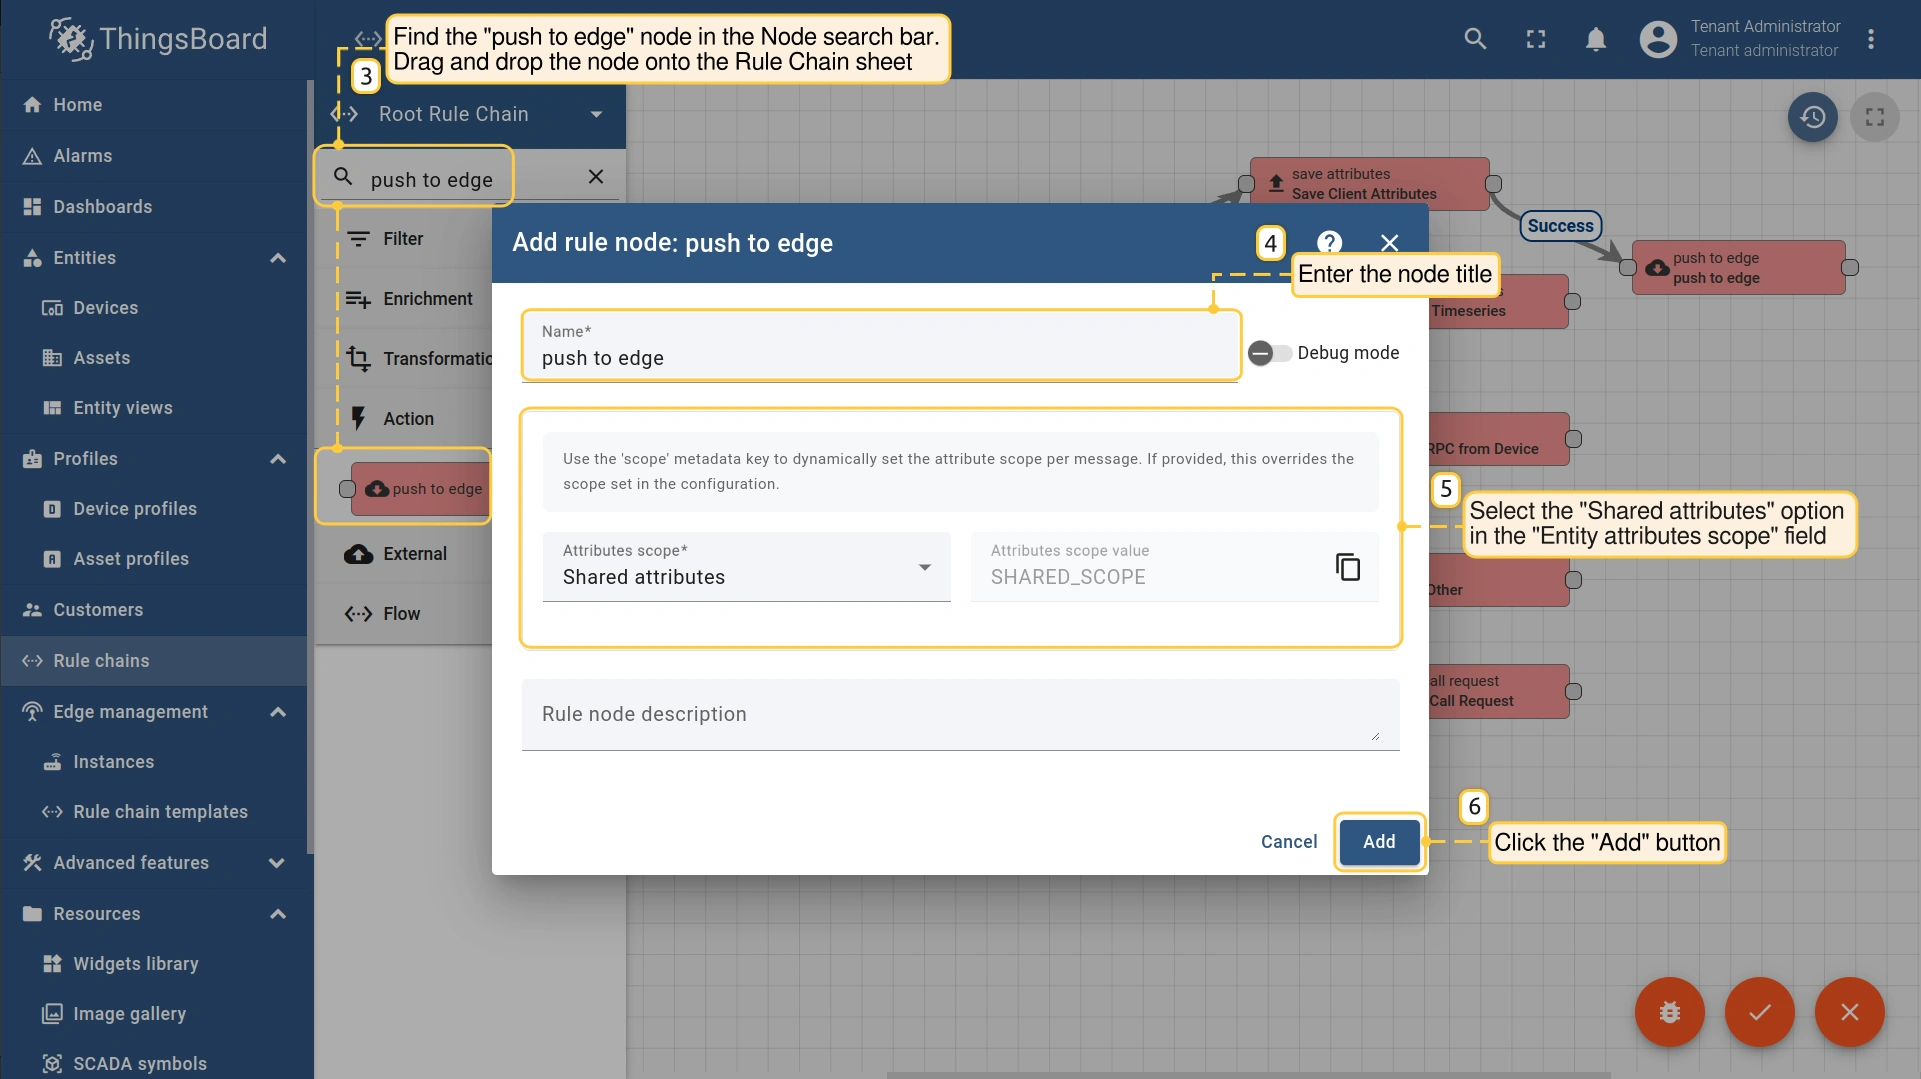
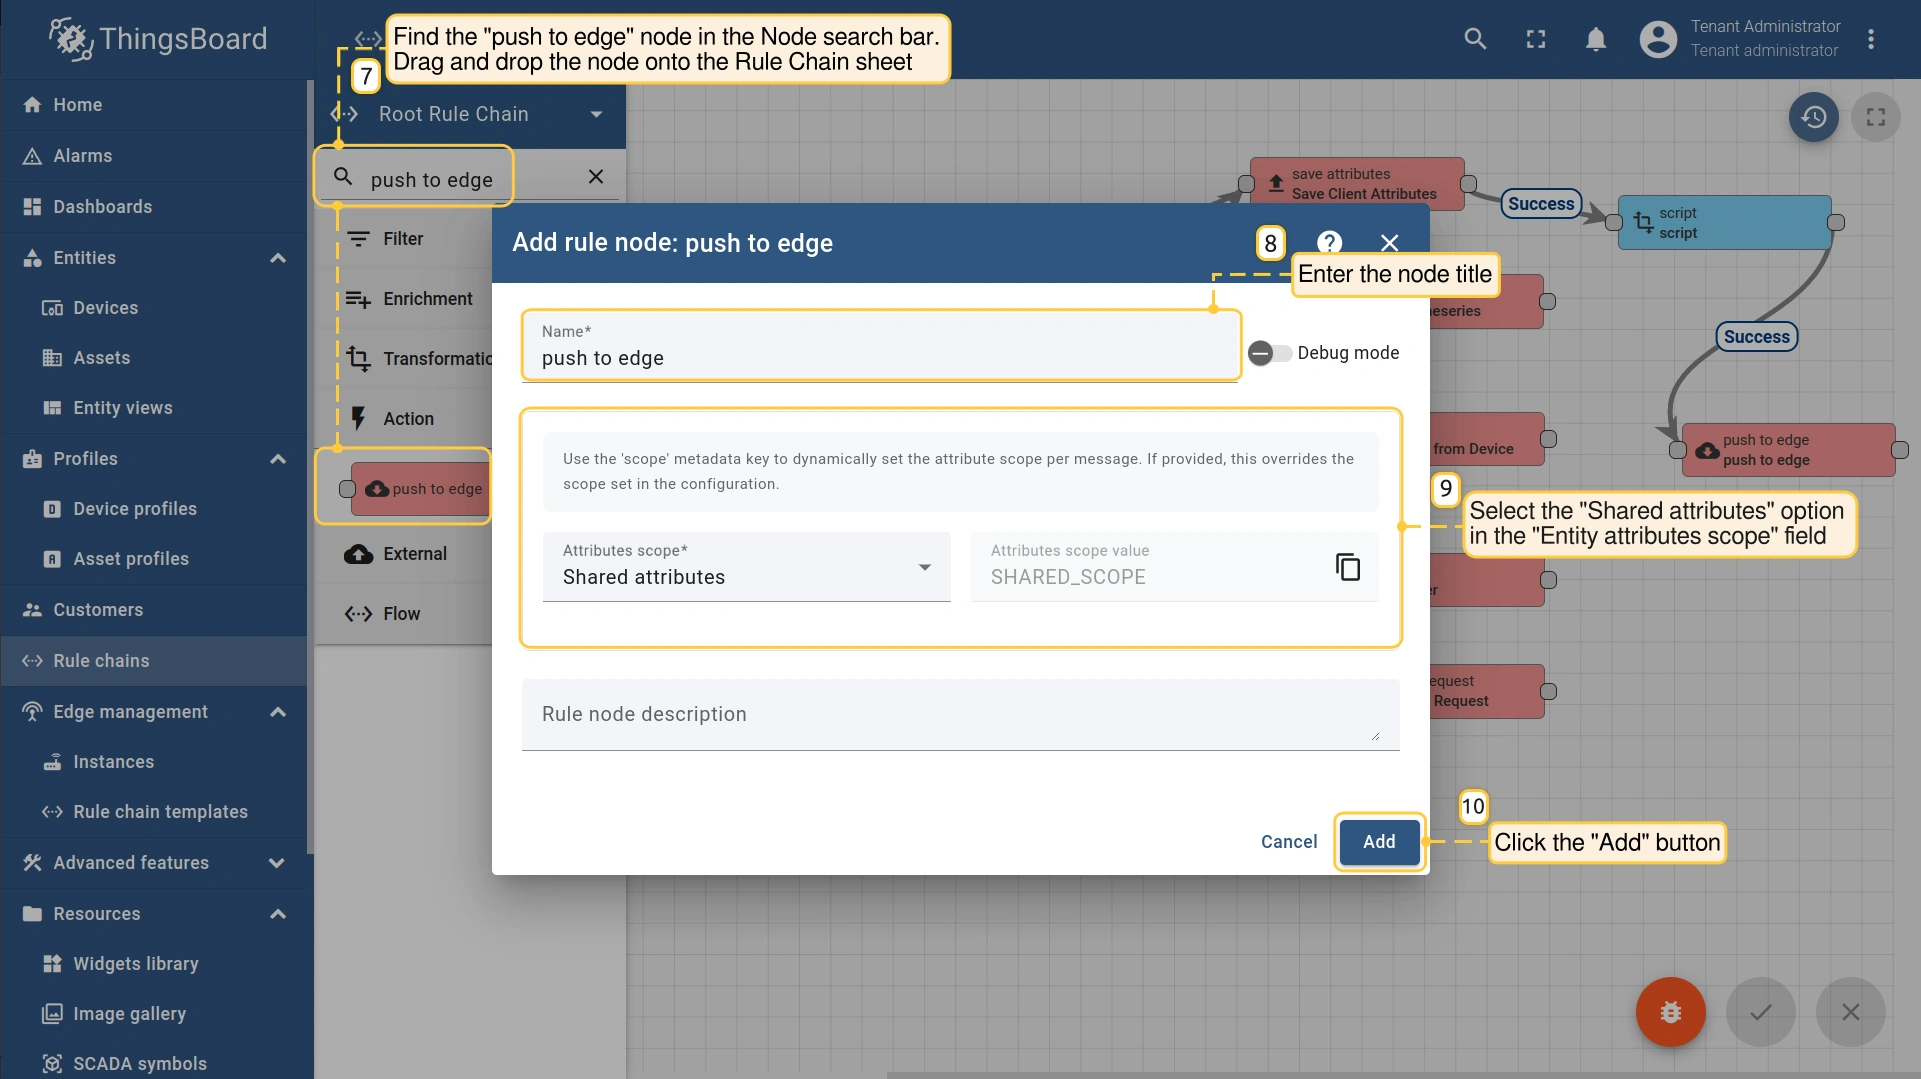
in progress

diff --git a/docs/pe/edge/config/subscribe-to-attribute.md b/docs/pe/edge/config/subscribe-to-attribute.md
@@ -1,7 +1,7 @@
 ---
 layout: docwithnav-pe-edge
-title: Bidirectional Attribute Subscription and Update with Post-Processing
-description: Bidirectional Attribute Subscription and Update with Post-Processing
+title: Bidirectional Attribute Subscription And Update with Post-Processing
+description: Bidirectional Attribute Subscription And Update with Post-Processing
 
 routeMessagesToCloud:
     0:
@@ -19,10 +19,13 @@ backToEdge:
         image: /images/pe/edge/config/subscribe-to-attribute/4-rule-chain-pe.webp
         title: 'Go to the <b>Rule Chains</b> section, to modify the <b>Rule Chain.</b>'
     1:
+        image: /images/edge/config/subscribe-to-attribute/5-add-script-pe.webp
+        title: 'On the <b>Rule Chain</b> edit page, in the Node search bar find the <b>"script"</b> node. It allows modification of message payload, metadata or message type with JavaScript. Drag and drop the node onto the <b>Rule Chain</b> sheet. Then, in the <b>"Add rule node: script"</b> pop-up window enter the node title and enter the script below. Click the <b>"Add"</b> button to proceed.'
+    2:
         image: /images/pe/edge/config/subscribe-to-attribute/5-add-push-to-edge-pe.webp
         title: 'On the <b>Rule Chain</b> edit page, in the Node search bar find the <b>"push to edge"</b> node. It pushes messages from Cloud to Edge. Drag and drop the node onto the <b>Rule Chain</b> sheet. Then, in the <b>"Add rule node"</b> pop-up window enter the node title and select the <b>"Shared attributes"</b> option in the <b>"Entity attributes scope"</b> field. Click the <b>"Add"</b> button to proceed.'
-    2:
-        image: /images/pe/edge/config/subscribe-to-attribute/6-save-pe.webp
+    3:
+        image: /images/edge/config/subscribe-to-attribute/6-save-pe.webp
         title: 'Connect the <b>“save attributes”</b> node to the <b>"push to edge"</b> node and set the <b>"Success"</b> link label. Click the <b>“Apply changes”</b> button in the <b>Rule Chain</b> sheet.'
 
 checkResultOnDevice:

diff --git a/docs/edge/config/subscribe-to-attribute.md b/docs/edge/config/subscribe-to-attribute.md
@@ -1,7 +1,7 @@
 ---
 layout: docwithnav-edge
-title: Bidirectional Attribute Subscription and Update with Post-Processing
-description: Bidirectional Attribute Subscription and Update with Post-Processing
+title: Bidirectional Attribute Subscription And Update with Post-Processing
+description: Bidirectional Attribute Subscription And Update with Post-Processing
 
 routeMessagesToCloud:
     0:
@@ -19,9 +19,12 @@ backToEdge:
         image: /images/edge/config/subscribe-to-attribute/4-rule-chain.webp
         title: 'Go to the <b>Rule Chains</b> section, to modify the <b>Rule Chain.</b>'
     1:
+        image: /images/edge/config/subscribe-to-attribute/5-add-script.webp
+        title: 'On the <b>Rule Chain</b> edit page, in the Node search bar find the <b>"script"</b> node. It allows modification of message payload, metadata or message type with JavaScript. Drag and drop the node onto the <b>Rule Chain</b> sheet. Then, in the <b>"Add rule node: script"</b> pop-up window enter the node title and enter the script below. Click the <b>"Add"</b> button to proceed.'
+    2:
         image: /images/edge/config/subscribe-to-attribute/5-add-push-to-edge.webp
         title: 'On the <b>Rule Chain</b> edit page, in the Node search bar find the <b>"push to edge"</b> node. It pushes messages from Cloud to Edge. Drag and drop the node onto the <b>Rule Chain</b> sheet. Then, in the <b>"Add rule node"</b> pop-up window enter the node title and select the <b>"Shared attributes"</b> option in the <b>"Entity attributes scope"</b> field. Click the <b>"Add"</b> button to proceed.'
-    2:
+    3:
         image: /images/edge/config/subscribe-to-attribute/6-save.webp
         title: 'Connect the <b>“save attributes”</b> and <b>“save time series”</b> nodes to the <b>"push to edge"</b> node and set the <b>"Success"</b> link label. Click the <b>“Apply changes”</b> button on the <b>Rule Chain</b> sheet.'
 

diff --git a/_includes/docs/edge/user-guide/config/subscribe-to-attribute.md b/_includes/docs/edge/user-guide/config/subscribe-to-attribute.md
@@ -34,6 +34,16 @@ To send back some attributes update message to the Edge, modify root rule chain 
 
 {% include images-gallery.html imageCollection="backToEdge" showListImageTitles="true" %}
 
+To rewrite and return received data back to Edge, add the following script into the **"script"** node:
+```bash
+// POST PROCESSING LOGIC
+msg = {"attribute1_result": "value1_result"};
+metadata = {};
+
+return {msg: msg, metadata: metadata, msgType: msgType};
+```
+{: .copy-code}
+
 ## Step 3. Subscribe to Device Attributes Change And Publish Device Attributes Message
 
 The procedure for subscribing to the **Device Attribute Changes** and subsequently publishing the **Device Attributes Message** depends on the protocol used. There are  the most commonly used protocols for basic telemetry and attribute updates in IoT applications:
